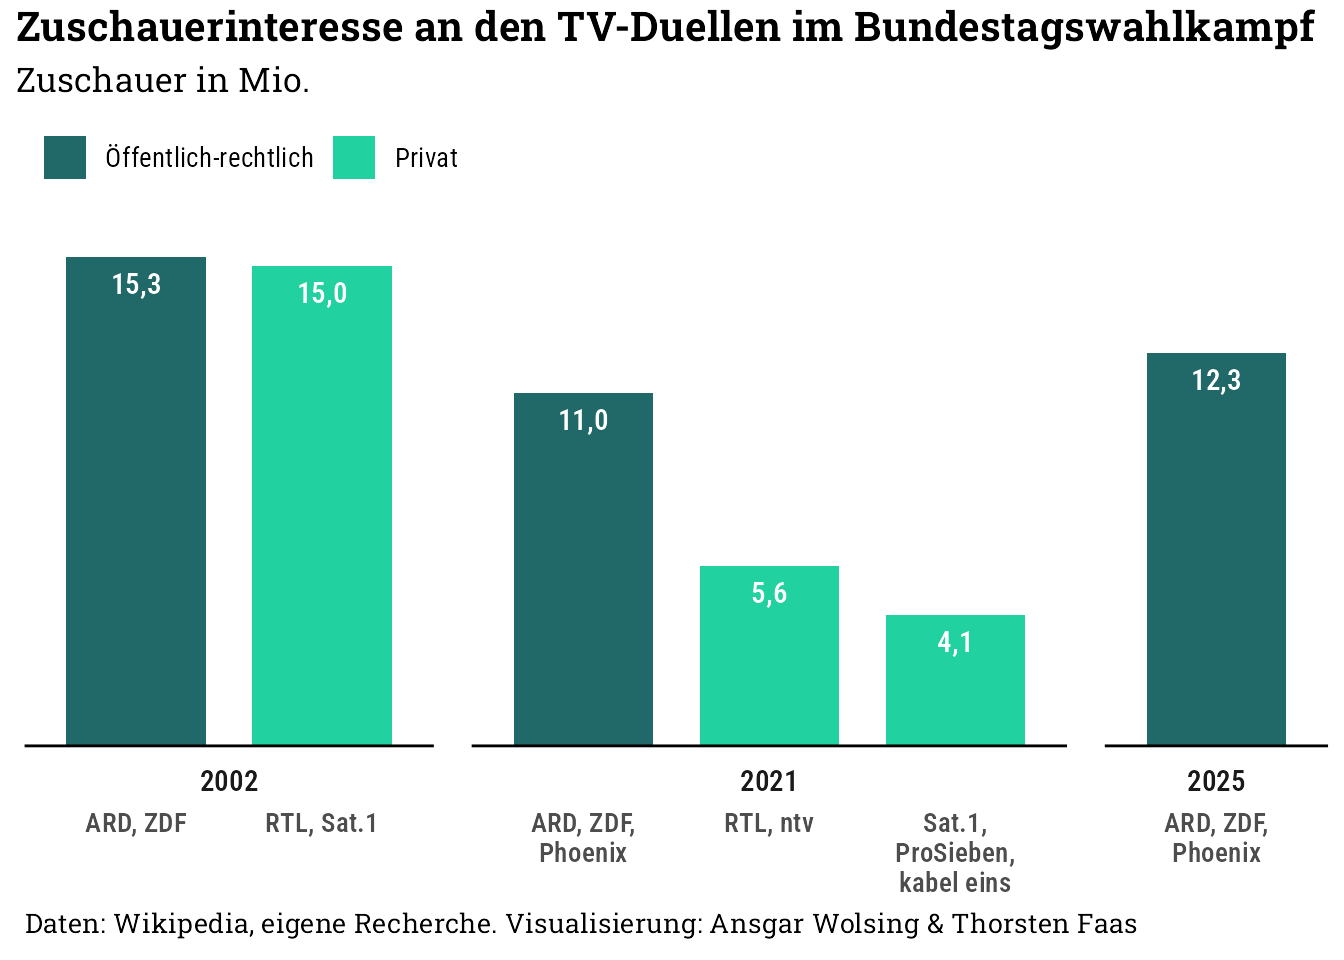
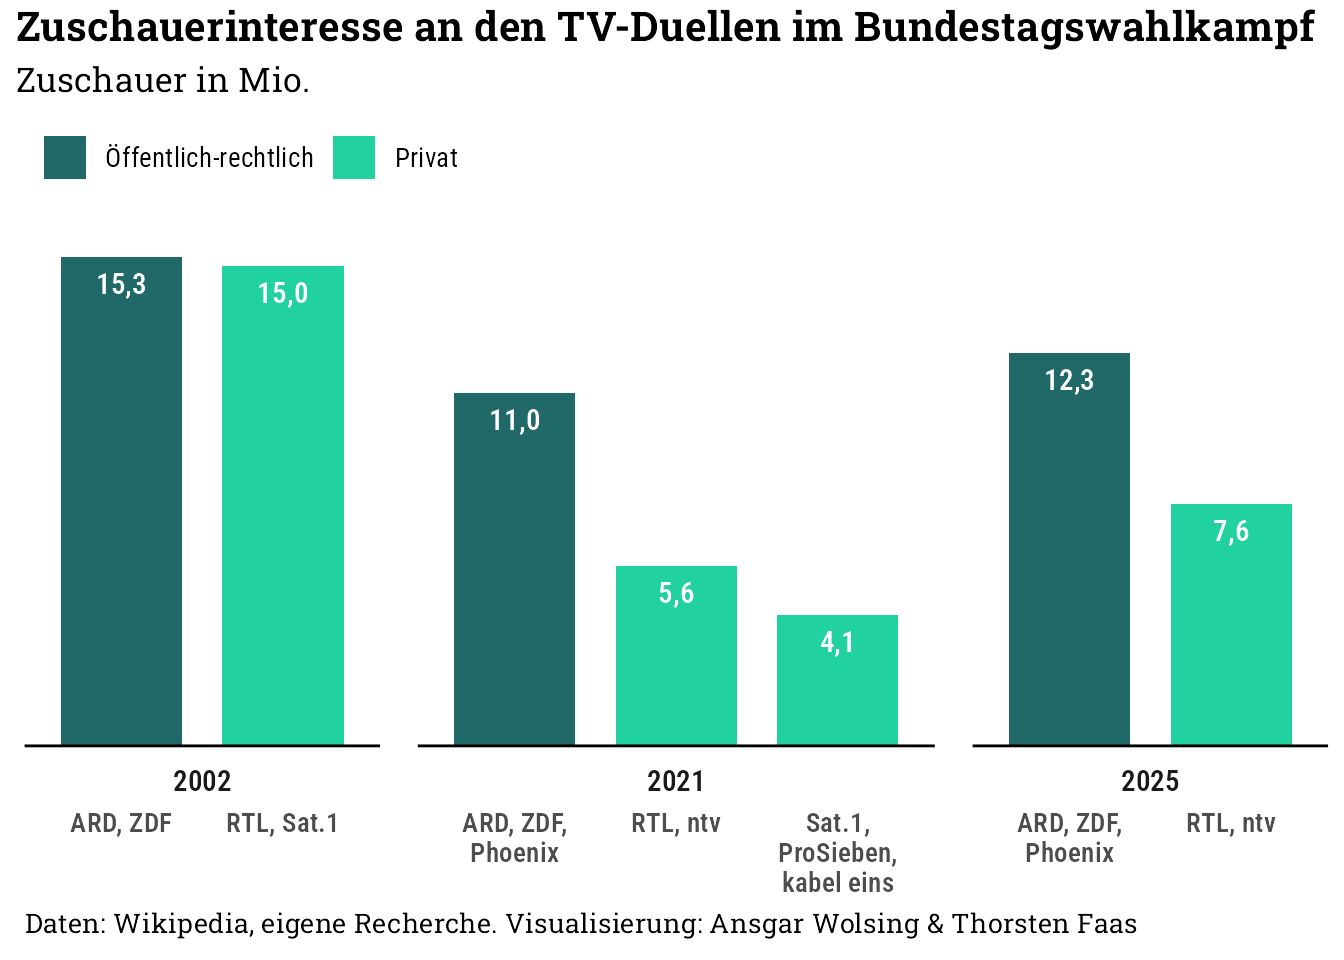
Updates Quoten 2025

Changed region(s): [[0.0312, 0.25, 0.9688, 0.9375]]

diff --git a/06-tv-duell/05-tv-duell.html b/06-tv-duell/05-tv-duell.html
@@ -889,51 +889,114 @@ pre > code.sourceCode > span > a:first-child::before { text-decoration: underlin
 </div>
 </div>
 </div>
+<section id="inkl.-2025" class="level4">
+<h4 class="anchored" data-anchor-id="inkl.-2025">Inkl. 2025</h4>
+<div class="cell">
+<details class="code-fold">
+<summary>Code</summary>
+<div class="sourceCode cell-code" id="cb16"><pre class="sourceCode r code-with-copy"><code class="sourceCode r"><span id="cb16-1"><a href="#cb16-1" aria-hidden="true" tabindex="-1"></a>btw_kandidaten <span class="ot">&lt;-</span> <span class="fu">tribble</span>(</span>
+<span id="cb16-2"><a href="#cb16-2" aria-hidden="true" tabindex="-1"></a>  <span class="sc">~</span>btw, <span class="sc">~</span>kandidaten,</span>
+<span id="cb16-3"><a href="#cb16-3" aria-hidden="true" tabindex="-1"></a>  <span class="dv">2002</span>, <span class="st">"Schröder/Stoiber"</span>,</span>
+<span id="cb16-4"><a href="#cb16-4" aria-hidden="true" tabindex="-1"></a>  <span class="dv">2005</span>, <span class="st">"Schröder/Merkel"</span>,</span>
+<span id="cb16-5"><a href="#cb16-5" aria-hidden="true" tabindex="-1"></a>  <span class="dv">2009</span>, <span class="st">"Merkel/Steinmeier"</span>,</span>
+<span id="cb16-6"><a href="#cb16-6" aria-hidden="true" tabindex="-1"></a>  <span class="dv">2013</span>, <span class="st">"Merkel/Steinbrück"</span>,</span>
+<span id="cb16-7"><a href="#cb16-7" aria-hidden="true" tabindex="-1"></a>  <span class="dv">2017</span>, <span class="st">"Merkel/Schulz"</span>,</span>
+<span id="cb16-8"><a href="#cb16-8" aria-hidden="true" tabindex="-1"></a>  <span class="dv">2021</span>, <span class="st">"Laschet/Scholz/Baerbock"</span>,</span>
+<span id="cb16-9"><a href="#cb16-9" aria-hidden="true" tabindex="-1"></a>  <span class="dv">2025</span>, <span class="st">"Scholz/Merz/(Habeck/Weidel)"</span></span>
+<span id="cb16-10"><a href="#cb16-10" aria-hidden="true" tabindex="-1"></a>)</span>
+<span id="cb16-11"><a href="#cb16-11" aria-hidden="true" tabindex="-1"></a></span>
+<span id="cb16-12"><a href="#cb16-12" aria-hidden="true" tabindex="-1"></a>df_zuschauer <span class="sc">|&gt;</span></span>
+<span id="cb16-13"><a href="#cb16-13" aria-hidden="true" tabindex="-1"></a>  <span class="fu">inner_join</span>(btw_kandidaten, <span class="at">by =</span> <span class="fu">join_by</span>(btw)) <span class="sc">|&gt;</span> </span>
+<span id="cb16-14"><a href="#cb16-14" aria-hidden="true" tabindex="-1"></a>    <span class="fu">mutate</span>(</span>
+<span id="cb16-15"><a href="#cb16-15" aria-hidden="true" tabindex="-1"></a>      <span class="at">kandidate_label =</span> <span class="fu">case_when</span>(</span>
+<span id="cb16-16"><a href="#cb16-16" aria-hidden="true" tabindex="-1"></a>         btw <span class="sc">%in%</span> <span class="fu">c</span>(<span class="dv">2005</span><span class="sc">:</span><span class="dv">2017</span>) <span class="sc">~</span> <span class="fu">str_replace_all</span>(kandidaten, <span class="st">"/"</span>, <span class="st">"/&lt;br&gt;"</span>),</span>
+<span id="cb16-17"><a href="#cb16-17" aria-hidden="true" tabindex="-1"></a>         btw <span class="sc">==</span> <span class="dv">2025</span> <span class="sc">~</span> <span class="st">"Scholz/Merz/&lt;br&gt;(Habeck/Weidel"</span>,</span>
+<span id="cb16-18"><a href="#cb16-18" aria-hidden="true" tabindex="-1"></a>         <span class="cn">TRUE</span> <span class="sc">~</span> kandidaten</span>
+<span id="cb16-19"><a href="#cb16-19" aria-hidden="true" tabindex="-1"></a>      ),</span>
+<span id="cb16-20"><a href="#cb16-20" aria-hidden="true" tabindex="-1"></a>    <span class="at">btw_kandidaten_label =</span> <span class="fu">sprintf</span>(<span class="st">"&lt;b style='font-size:12pt'&gt;%s&lt;/b&gt;&lt;br&gt;%s"</span>, btw, kandidate_label)</span>
+<span id="cb16-21"><a href="#cb16-21" aria-hidden="true" tabindex="-1"></a>    ) <span class="sc">|&gt;</span> </span>
+<span id="cb16-22"><a href="#cb16-22" aria-hidden="true" tabindex="-1"></a>  <span class="fu">ggplot</span>(<span class="fu">aes</span>(sendungsnummer, zuschauer)) <span class="sc">+</span></span>
+<span id="cb16-23"><a href="#cb16-23" aria-hidden="true" tabindex="-1"></a>  <span class="fu">geom_col</span>(</span>
+<span id="cb16-24"><a href="#cb16-24" aria-hidden="true" tabindex="-1"></a>    <span class="at">fill =</span> color_pal[<span class="dv">1</span>]</span>
+<span id="cb16-25"><a href="#cb16-25" aria-hidden="true" tabindex="-1"></a>  ) <span class="sc">+</span></span>
+<span id="cb16-26"><a href="#cb16-26" aria-hidden="true" tabindex="-1"></a>  <span class="fu">geom_text</span>(</span>
+<span id="cb16-27"><a href="#cb16-27" aria-hidden="true" tabindex="-1"></a>    <span class="fu">aes</span>(<span class="at">label =</span> scales<span class="sc">::</span><span class="fu">number</span>(zuschauer, <span class="at">accuracy =</span> <span class="fl">0.1</span>, <span class="at">decimal.mark =</span> <span class="st">","</span>)),</span>
+<span id="cb16-28"><a href="#cb16-28" aria-hidden="true" tabindex="-1"></a>    <span class="at">vjust =</span> <span class="dv">1</span>, <span class="at">nudge_y =</span> <span class="sc">-</span><span class="fl">0.5</span>,</span>
+<span id="cb16-29"><a href="#cb16-29" aria-hidden="true" tabindex="-1"></a>    <span class="at">family =</span> <span class="st">"Roboto Condensed SemiBold"</span>, <span class="at">col =</span> <span class="st">"white"</span></span>
+<span id="cb16-30"><a href="#cb16-30" aria-hidden="true" tabindex="-1"></a>  ) <span class="sc">+</span></span>
+<span id="cb16-31"><a href="#cb16-31" aria-hidden="true" tabindex="-1"></a>  <span class="fu">geom_hline</span>(<span class="fu">aes</span>(<span class="at">yintercept =</span> <span class="dv">0</span>)) <span class="sc">+</span></span>
+<span id="cb16-32"><a href="#cb16-32" aria-hidden="true" tabindex="-1"></a>  <span class="fu">facet_grid</span>(<span class="at">cols =</span> <span class="fu">vars</span>(btw_kandidaten_label), <span class="at">switch =</span> <span class="st">"x"</span>, <span class="at">space =</span> <span class="st">"free_x"</span>, <span class="at">scale =</span> <span class="st">"free_x"</span>) <span class="sc">+</span></span>
+<span id="cb16-33"><a href="#cb16-33" aria-hidden="true" tabindex="-1"></a>  <span class="fu">labs</span>(</span>
+<span id="cb16-34"><a href="#cb16-34" aria-hidden="true" tabindex="-1"></a>    <span class="at">title =</span> <span class="st">"Zuschauerinteresse an den TV-Duellen im Bundestagswahlkampf"</span>,</span>
+<span id="cb16-35"><a href="#cb16-35" aria-hidden="true" tabindex="-1"></a>    <span class="at">subtitle =</span> <span class="st">"Zuschauer in Mio."</span>,</span>
+<span id="cb16-36"><a href="#cb16-36" aria-hidden="true" tabindex="-1"></a>    <span class="at">caption =</span> <span class="st">"Daten: Wikipedia, eigene Recherche. Visualisierung: Ansgar Wolsing &amp; Thorsten Faas"</span></span>
+<span id="cb16-37"><a href="#cb16-37" aria-hidden="true" tabindex="-1"></a>  ) <span class="sc">+</span></span>
+<span id="cb16-38"><a href="#cb16-38" aria-hidden="true" tabindex="-1"></a>  <span class="fu">theme</span>(</span>
+<span id="cb16-39"><a href="#cb16-39" aria-hidden="true" tabindex="-1"></a>    <span class="at">axis.text =</span> <span class="fu">element_blank</span>(),</span>
+<span id="cb16-40"><a href="#cb16-40" aria-hidden="true" tabindex="-1"></a>    <span class="at">axis.text.x =</span> <span class="fu">element_blank</span>(),</span>
+<span id="cb16-41"><a href="#cb16-41" aria-hidden="true" tabindex="-1"></a>    <span class="at">axis.title =</span> <span class="fu">element_blank</span>(),</span>
+<span id="cb16-42"><a href="#cb16-42" aria-hidden="true" tabindex="-1"></a>    <span class="at">panel.grid =</span> <span class="fu">element_blank</span>(),</span>
+<span id="cb16-43"><a href="#cb16-43" aria-hidden="true" tabindex="-1"></a>    <span class="at">panel.spacing.x =</span> <span class="fu">unit</span>(<span class="dv">5</span>, <span class="st">"mm"</span>),</span>
+<span id="cb16-44"><a href="#cb16-44" aria-hidden="true" tabindex="-1"></a>    <span class="at">strip.text.x.bottom =</span> <span class="fu">element_markdown</span>(</span>
+<span id="cb16-45"><a href="#cb16-45" aria-hidden="true" tabindex="-1"></a>      <span class="at">family =</span> <span class="st">"Roboto Condensed"</span>,</span>
+<span id="cb16-46"><a href="#cb16-46" aria-hidden="true" tabindex="-1"></a>      <span class="at">vjust =</span> <span class="dv">1</span>,</span>
+<span id="cb16-47"><a href="#cb16-47" aria-hidden="true" tabindex="-1"></a>      <span class="at">margin =</span> <span class="fu">margin</span>(<span class="at">t =</span> <span class="dv">0</span>))</span>
+<span id="cb16-48"><a href="#cb16-48" aria-hidden="true" tabindex="-1"></a>  )</span></code><button title="Copy to Clipboard" class="code-copy-button"><i class="bi"></i></button></pre></div>
+</details>
+<div class="cell-output-display">
+<div>
+<figure class="figure">
+<p><img src="05-tv-duell_files/figure-html/plot-zuschauer-tv-duelle-inkl-2025-1.png" class="img-fluid figure-img" width="864"></p>
+</figure>
+</div>
+</div>
+</div>
+</section>
 <section id="zuschauerzahlen-örr-vs.-privat" class="level4">
 <h4 class="anchored" data-anchor-id="zuschauerzahlen-örr-vs.-privat">Zuschauerzahlen ÖRR vs.&nbsp;Privat</h4>
 <div class="cell">
 <details class="code-fold">
 <summary>Code</summary>
-<div class="sourceCode cell-code" id="cb16"><pre class="sourceCode r code-with-copy"><code class="sourceCode r"><span id="cb16-1"><a href="#cb16-1" aria-hidden="true" tabindex="-1"></a>df_zuschauer <span class="sc">|&gt;</span> </span>
-<span id="cb16-2"><a href="#cb16-2" aria-hidden="true" tabindex="-1"></a>  <span class="fu">filter</span>(btw <span class="sc">%in%</span> <span class="fu">c</span>(<span class="dv">2002</span>, <span class="dv">2021</span>, <span class="dv">2025</span>)) <span class="sc">|&gt;</span> </span>
-<span id="cb16-3"><a href="#cb16-3" aria-hidden="true" tabindex="-1"></a>  <span class="fu">mutate</span>(</span>
-<span id="cb16-4"><a href="#cb16-4" aria-hidden="true" tabindex="-1"></a>    <span class="at">sender =</span> <span class="fu">str_wrap</span>(sender, <span class="dv">12</span>),</span>
-<span id="cb16-5"><a href="#cb16-5" aria-hidden="true" tabindex="-1"></a>    <span class="at">oerr_privat =</span> <span class="fu">case_when</span>(</span>
-<span id="cb16-6"><a href="#cb16-6" aria-hidden="true" tabindex="-1"></a>      <span class="fu">str_detect</span>(sender, <span class="st">"ARD|ZDF"</span>) <span class="sc">~</span> <span class="st">"Öffentlich-rechtlich"</span>,</span>
-<span id="cb16-7"><a href="#cb16-7" aria-hidden="true" tabindex="-1"></a>      <span class="fu">str_detect</span>(sender, <span class="st">"RTL|ntv|Sat</span><span class="sc">\\</span><span class="st">.1|ProSieben"</span>) <span class="sc">~</span> <span class="st">"Privat"</span></span>
-<span id="cb16-8"><a href="#cb16-8" aria-hidden="true" tabindex="-1"></a>    )) <span class="sc">|&gt;</span> </span>
-<span id="cb16-9"><a href="#cb16-9" aria-hidden="true" tabindex="-1"></a>  <span class="fu">ggplot</span>(<span class="fu">aes</span>(sender, zuschauer)) <span class="sc">+</span></span>
-<span id="cb16-10"><a href="#cb16-10" aria-hidden="true" tabindex="-1"></a>  <span class="fu">geom_col</span>(</span>
-<span id="cb16-11"><a href="#cb16-11" aria-hidden="true" tabindex="-1"></a>    <span class="fu">aes</span>(<span class="at">fill =</span> oerr_privat),</span>
-<span id="cb16-12"><a href="#cb16-12" aria-hidden="true" tabindex="-1"></a>    <span class="at">width =</span> <span class="fl">0.75</span>) <span class="sc">+</span></span>
-<span id="cb16-13"><a href="#cb16-13" aria-hidden="true" tabindex="-1"></a>  <span class="fu">geom_text</span>(</span>
-<span id="cb16-14"><a href="#cb16-14" aria-hidden="true" tabindex="-1"></a>    <span class="fu">aes</span>(<span class="at">label =</span> scales<span class="sc">::</span><span class="fu">number</span>(zuschauer, <span class="at">accuracy =</span> <span class="fl">0.1</span>, <span class="at">decimal.mark =</span> <span class="st">","</span>)),</span>
-<span id="cb16-15"><a href="#cb16-15" aria-hidden="true" tabindex="-1"></a>    <span class="at">vjust =</span> <span class="dv">1</span>, <span class="at">nudge_y =</span> <span class="sc">-</span><span class="fl">0.5</span>,</span>
-<span id="cb16-16"><a href="#cb16-16" aria-hidden="true" tabindex="-1"></a>    <span class="at">family =</span> <span class="st">"Roboto Condensed SemiBold"</span>, <span class="at">col =</span> <span class="st">"white"</span></span>
-<span id="cb16-17"><a href="#cb16-17" aria-hidden="true" tabindex="-1"></a>  ) <span class="sc">+</span></span>
-<span id="cb16-18"><a href="#cb16-18" aria-hidden="true" tabindex="-1"></a>  <span class="fu">geom_hline</span>(<span class="fu">aes</span>(<span class="at">yintercept =</span> <span class="dv">0</span>)) <span class="sc">+</span></span>
-<span id="cb16-19"><a href="#cb16-19" aria-hidden="true" tabindex="-1"></a>  <span class="fu">scale_fill_manual</span>(<span class="at">values =</span> color_pal[<span class="fu">c</span>(<span class="dv">2</span>, <span class="dv">7</span>)]) <span class="sc">+</span></span>
-<span id="cb16-20"><a href="#cb16-20" aria-hidden="true" tabindex="-1"></a>  <span class="fu">facet_grid</span>(<span class="at">cols =</span> <span class="fu">vars</span>(btw), <span class="at">switch =</span> <span class="st">"x"</span>, <span class="at">space =</span> <span class="st">"free_x"</span>, <span class="at">scale =</span> <span class="st">"free_x"</span>) <span class="sc">+</span></span>
-<span id="cb16-21"><a href="#cb16-21" aria-hidden="true" tabindex="-1"></a>  <span class="fu">labs</span>(</span>
-<span id="cb16-22"><a href="#cb16-22" aria-hidden="true" tabindex="-1"></a>    <span class="at">title =</span> <span class="st">"Zuschauerinteresse an den TV-Duellen im Bundestagswahlkampf"</span>,</span>
-<span id="cb16-23"><a href="#cb16-23" aria-hidden="true" tabindex="-1"></a>    <span class="at">subtitle =</span> <span class="st">"Zuschauer in Mio."</span>,</span>
-<span id="cb16-24"><a href="#cb16-24" aria-hidden="true" tabindex="-1"></a>    <span class="at">caption =</span> <span class="st">"Daten: Wikipedia, eigene Recherche. </span></span>
-<span id="cb16-25"><a href="#cb16-25" aria-hidden="true" tabindex="-1"></a><span class="st">    Visualisierung: Ansgar Wolsing &amp; Thorsten Faas"</span>,</span>
-<span id="cb16-26"><a href="#cb16-26" aria-hidden="true" tabindex="-1"></a>    <span class="at">fill =</span> <span class="cn">NULL</span></span>
-<span id="cb16-27"><a href="#cb16-27" aria-hidden="true" tabindex="-1"></a>   ) <span class="sc">+</span></span>
-<span id="cb16-28"><a href="#cb16-28" aria-hidden="true" tabindex="-1"></a>   <span class="fu">theme</span>(</span>
-<span id="cb16-29"><a href="#cb16-29" aria-hidden="true" tabindex="-1"></a>    <span class="at">legend.position =</span> <span class="st">"top"</span>,</span>
-<span id="cb16-30"><a href="#cb16-30" aria-hidden="true" tabindex="-1"></a>    <span class="at">legend.justification =</span> <span class="st">"left"</span>,</span>
-<span id="cb16-31"><a href="#cb16-31" aria-hidden="true" tabindex="-1"></a>    <span class="at">axis.text.y =</span> <span class="fu">element_blank</span>(),</span>
-<span id="cb16-32"><a href="#cb16-32" aria-hidden="true" tabindex="-1"></a>    <span class="at">axis.title =</span> <span class="fu">element_blank</span>(),</span>
-<span id="cb16-33"><a href="#cb16-33" aria-hidden="true" tabindex="-1"></a>    <span class="at">panel.grid =</span> <span class="fu">element_blank</span>(),</span>
-<span id="cb16-34"><a href="#cb16-34" aria-hidden="true" tabindex="-1"></a>    <span class="at">panel.spacing.x =</span> <span class="fu">unit</span>(<span class="dv">5</span>, <span class="st">"mm"</span>),</span>
-<span id="cb16-35"><a href="#cb16-35" aria-hidden="true" tabindex="-1"></a>    <span class="at">plot.caption =</span> <span class="fu">element_textbox</span>(<span class="at">margin =</span> <span class="fu">margin</span>(<span class="at">t =</span> <span class="dv">6</span>, <span class="at">b =</span> <span class="dv">6</span>)),</span>
-<span id="cb16-36"><a href="#cb16-36" aria-hidden="true" tabindex="-1"></a>    <span class="at">strip.text.x.bottom =</span> <span class="fu">element_markdown</span>(</span>
-<span id="cb16-37"><a href="#cb16-37" aria-hidden="true" tabindex="-1"></a>      <span class="at">family =</span> <span class="st">"Roboto Condensed SemiBold"</span>,</span>
-<span id="cb16-38"><a href="#cb16-38" aria-hidden="true" tabindex="-1"></a>      <span class="at">vjust =</span> <span class="dv">1</span>,</span>
-<span id="cb16-39"><a href="#cb16-39" aria-hidden="true" tabindex="-1"></a>      <span class="at">margin =</span> <span class="fu">margin</span>(<span class="at">t =</span> <span class="dv">0</span>))</span>
-<span id="cb16-40"><a href="#cb16-40" aria-hidden="true" tabindex="-1"></a>  )</span></code><button title="Copy to Clipboard" class="code-copy-button"><i class="bi"></i></button></pre></div>
+<div class="sourceCode cell-code" id="cb17"><pre class="sourceCode r code-with-copy"><code class="sourceCode r"><span id="cb17-1"><a href="#cb17-1" aria-hidden="true" tabindex="-1"></a>df_zuschauer <span class="sc">|&gt;</span> </span>
+<span id="cb17-2"><a href="#cb17-2" aria-hidden="true" tabindex="-1"></a>  <span class="fu">filter</span>(btw <span class="sc">%in%</span> <span class="fu">c</span>(<span class="dv">2002</span>, <span class="dv">2021</span>, <span class="dv">2025</span>)) <span class="sc">|&gt;</span> </span>
+<span id="cb17-3"><a href="#cb17-3" aria-hidden="true" tabindex="-1"></a>  <span class="fu">mutate</span>(</span>
+<span id="cb17-4"><a href="#cb17-4" aria-hidden="true" tabindex="-1"></a>    <span class="at">sender =</span> <span class="fu">str_wrap</span>(sender, <span class="dv">12</span>),</span>
+<span id="cb17-5"><a href="#cb17-5" aria-hidden="true" tabindex="-1"></a>    <span class="at">oerr_privat =</span> <span class="fu">case_when</span>(</span>
+<span id="cb17-6"><a href="#cb17-6" aria-hidden="true" tabindex="-1"></a>      <span class="fu">str_detect</span>(sender, <span class="st">"ARD|ZDF"</span>) <span class="sc">~</span> <span class="st">"Öffentlich-rechtlich"</span>,</span>
+<span id="cb17-7"><a href="#cb17-7" aria-hidden="true" tabindex="-1"></a>      <span class="fu">str_detect</span>(sender, <span class="st">"RTL|ntv|Sat</span><span class="sc">\\</span><span class="st">.1|ProSieben"</span>) <span class="sc">~</span> <span class="st">"Privat"</span></span>
+<span id="cb17-8"><a href="#cb17-8" aria-hidden="true" tabindex="-1"></a>    )) <span class="sc">|&gt;</span> </span>
+<span id="cb17-9"><a href="#cb17-9" aria-hidden="true" tabindex="-1"></a>  <span class="fu">ggplot</span>(<span class="fu">aes</span>(sender, zuschauer)) <span class="sc">+</span></span>
+<span id="cb17-10"><a href="#cb17-10" aria-hidden="true" tabindex="-1"></a>  <span class="fu">geom_col</span>(</span>
+<span id="cb17-11"><a href="#cb17-11" aria-hidden="true" tabindex="-1"></a>    <span class="fu">aes</span>(<span class="at">fill =</span> oerr_privat),</span>
+<span id="cb17-12"><a href="#cb17-12" aria-hidden="true" tabindex="-1"></a>    <span class="at">width =</span> <span class="fl">0.75</span>) <span class="sc">+</span></span>
+<span id="cb17-13"><a href="#cb17-13" aria-hidden="true" tabindex="-1"></a>  <span class="fu">geom_text</span>(</span>
+<span id="cb17-14"><a href="#cb17-14" aria-hidden="true" tabindex="-1"></a>    <span class="fu">aes</span>(<span class="at">label =</span> scales<span class="sc">::</span><span class="fu">number</span>(zuschauer, <span class="at">accuracy =</span> <span class="fl">0.1</span>, <span class="at">decimal.mark =</span> <span class="st">","</span>)),</span>
+<span id="cb17-15"><a href="#cb17-15" aria-hidden="true" tabindex="-1"></a>    <span class="at">vjust =</span> <span class="dv">1</span>, <span class="at">nudge_y =</span> <span class="sc">-</span><span class="fl">0.5</span>,</span>
+<span id="cb17-16"><a href="#cb17-16" aria-hidden="true" tabindex="-1"></a>    <span class="at">family =</span> <span class="st">"Roboto Condensed SemiBold"</span>, <span class="at">col =</span> <span class="st">"white"</span></span>
+<span id="cb17-17"><a href="#cb17-17" aria-hidden="true" tabindex="-1"></a>  ) <span class="sc">+</span></span>
+<span id="cb17-18"><a href="#cb17-18" aria-hidden="true" tabindex="-1"></a>  <span class="fu">geom_hline</span>(<span class="fu">aes</span>(<span class="at">yintercept =</span> <span class="dv">0</span>)) <span class="sc">+</span></span>
+<span id="cb17-19"><a href="#cb17-19" aria-hidden="true" tabindex="-1"></a>  <span class="fu">scale_fill_manual</span>(<span class="at">values =</span> color_pal[<span class="fu">c</span>(<span class="dv">2</span>, <span class="dv">7</span>)]) <span class="sc">+</span></span>
+<span id="cb17-20"><a href="#cb17-20" aria-hidden="true" tabindex="-1"></a>  <span class="fu">facet_grid</span>(<span class="at">cols =</span> <span class="fu">vars</span>(btw), <span class="at">switch =</span> <span class="st">"x"</span>, <span class="at">space =</span> <span class="st">"free_x"</span>, <span class="at">scale =</span> <span class="st">"free_x"</span>) <span class="sc">+</span></span>
+<span id="cb17-21"><a href="#cb17-21" aria-hidden="true" tabindex="-1"></a>  <span class="fu">labs</span>(</span>
+<span id="cb17-22"><a href="#cb17-22" aria-hidden="true" tabindex="-1"></a>    <span class="at">title =</span> <span class="st">"Zuschauerinteresse an den TV-Duellen im Bundestagswahlkampf"</span>,</span>
+<span id="cb17-23"><a href="#cb17-23" aria-hidden="true" tabindex="-1"></a>    <span class="at">subtitle =</span> <span class="st">"Zuschauer in Mio."</span>,</span>
+<span id="cb17-24"><a href="#cb17-24" aria-hidden="true" tabindex="-1"></a>    <span class="at">caption =</span> <span class="st">"Daten: Wikipedia, eigene Recherche. </span></span>
+<span id="cb17-25"><a href="#cb17-25" aria-hidden="true" tabindex="-1"></a><span class="st">    Visualisierung: Ansgar Wolsing &amp; Thorsten Faas"</span>,</span>
+<span id="cb17-26"><a href="#cb17-26" aria-hidden="true" tabindex="-1"></a>    <span class="at">fill =</span> <span class="cn">NULL</span></span>
+<span id="cb17-27"><a href="#cb17-27" aria-hidden="true" tabindex="-1"></a>   ) <span class="sc">+</span></span>
+<span id="cb17-28"><a href="#cb17-28" aria-hidden="true" tabindex="-1"></a>   <span class="fu">theme</span>(</span>
+<span id="cb17-29"><a href="#cb17-29" aria-hidden="true" tabindex="-1"></a>    <span class="at">legend.position =</span> <span class="st">"top"</span>,</span>
+<span id="cb17-30"><a href="#cb17-30" aria-hidden="true" tabindex="-1"></a>    <span class="at">legend.justification =</span> <span class="st">"left"</span>,</span>
+<span id="cb17-31"><a href="#cb17-31" aria-hidden="true" tabindex="-1"></a>    <span class="at">axis.text.y =</span> <span class="fu">element_blank</span>(),</span>
+<span id="cb17-32"><a href="#cb17-32" aria-hidden="true" tabindex="-1"></a>    <span class="at">axis.title =</span> <span class="fu">element_blank</span>(),</span>
+<span id="cb17-33"><a href="#cb17-33" aria-hidden="true" tabindex="-1"></a>    <span class="at">panel.grid =</span> <span class="fu">element_blank</span>(),</span>
+<span id="cb17-34"><a href="#cb17-34" aria-hidden="true" tabindex="-1"></a>    <span class="at">panel.spacing.x =</span> <span class="fu">unit</span>(<span class="dv">5</span>, <span class="st">"mm"</span>),</span>
+<span id="cb17-35"><a href="#cb17-35" aria-hidden="true" tabindex="-1"></a>    <span class="at">plot.caption =</span> <span class="fu">element_textbox</span>(<span class="at">margin =</span> <span class="fu">margin</span>(<span class="at">t =</span> <span class="dv">6</span>, <span class="at">b =</span> <span class="dv">6</span>)),</span>
+<span id="cb17-36"><a href="#cb17-36" aria-hidden="true" tabindex="-1"></a>    <span class="at">strip.text.x.bottom =</span> <span class="fu">element_markdown</span>(</span>
+<span id="cb17-37"><a href="#cb17-37" aria-hidden="true" tabindex="-1"></a>      <span class="at">family =</span> <span class="st">"Roboto Condensed SemiBold"</span>,</span>
+<span id="cb17-38"><a href="#cb17-38" aria-hidden="true" tabindex="-1"></a>      <span class="at">vjust =</span> <span class="dv">1</span>,</span>
+<span id="cb17-39"><a href="#cb17-39" aria-hidden="true" tabindex="-1"></a>      <span class="at">margin =</span> <span class="fu">margin</span>(<span class="at">t =</span> <span class="dv">0</span>))</span>
+<span id="cb17-40"><a href="#cb17-40" aria-hidden="true" tabindex="-1"></a>  )</span></code><button title="Copy to Clipboard" class="code-copy-button"><i class="bi"></i></button></pre></div>
 </details>
 <div class="cell-output-display">
 <div>
